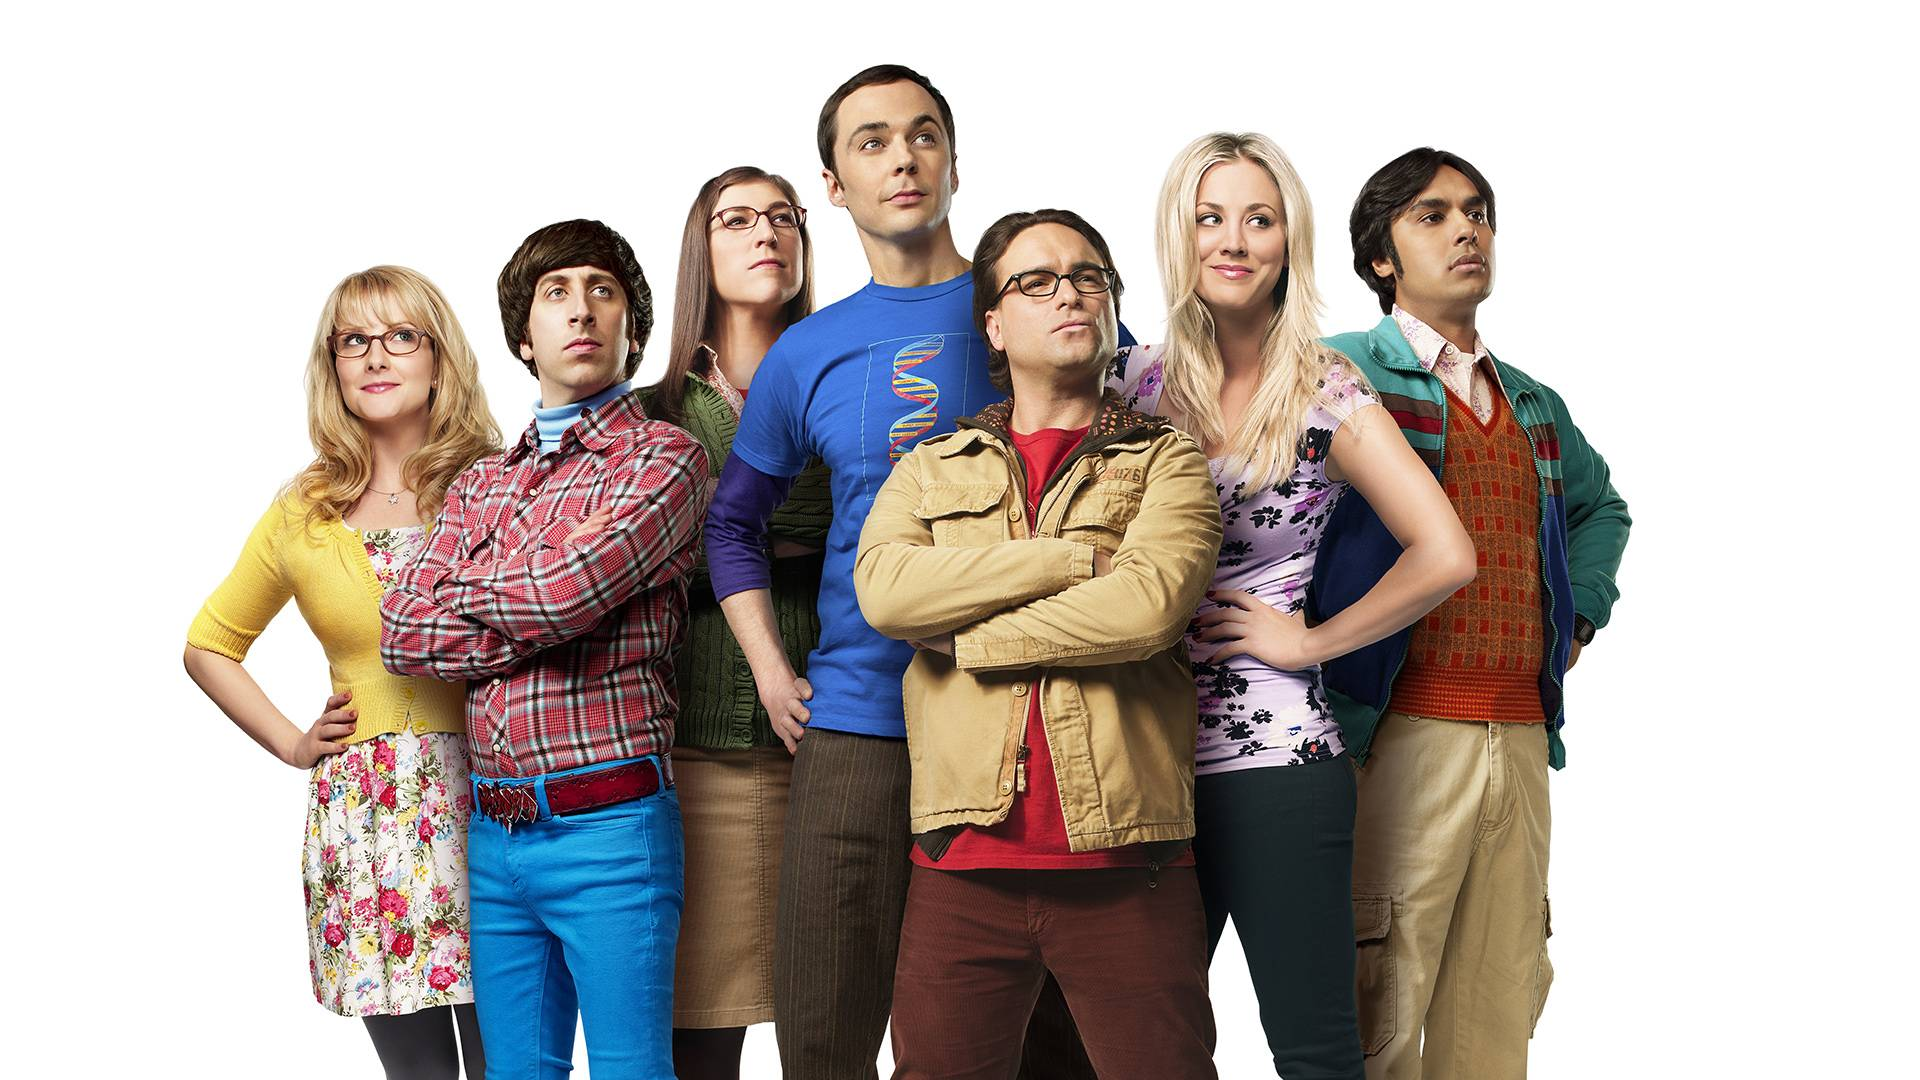
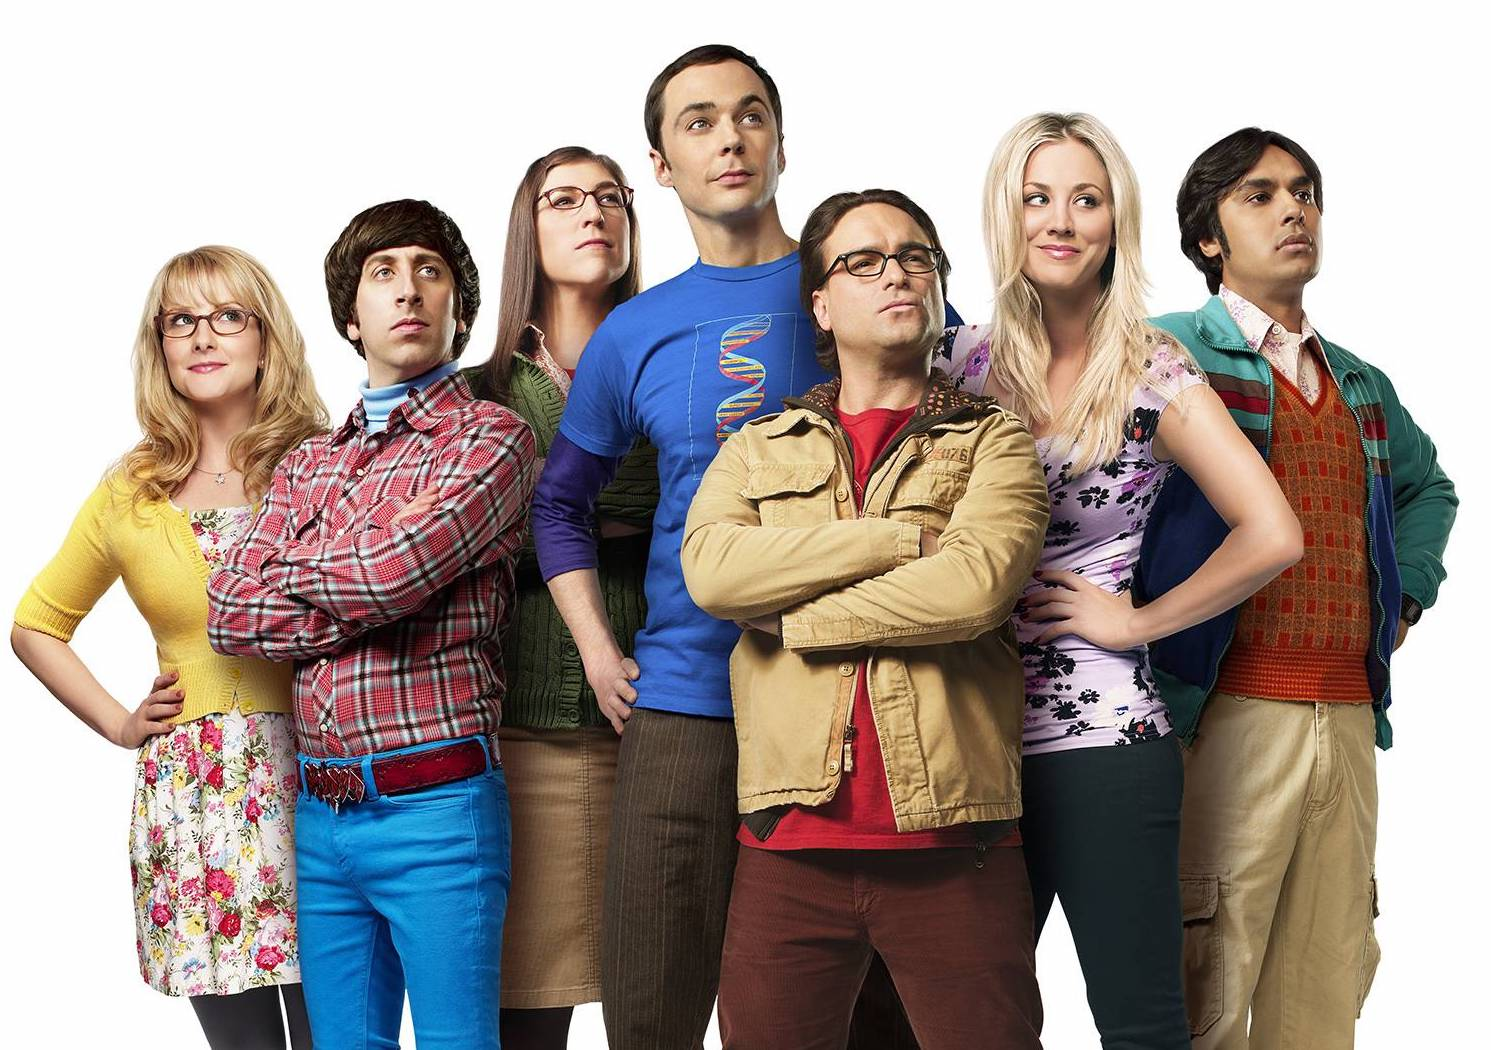
Teamimage eingefügt

diff --git a/styles/050-components.css b/styles/050-components.css
@@ -14,7 +14,14 @@ Wer es noch schöner möchte, möge sich mal https://cssguidelin.es/ anschauen.
 
 }
 
+.TeamBigBang{
 
+   width: auto;
+   height: auto;
+   max-width: 1080px;
+   max-height: 1080px;
+
+}
 
 =======
 .wrapper {
@@ -64,19 +71,9 @@ Wer es noch schöner möchte, möge sich mal https://cssguidelin.es/ anschauen.
 -----------------------------------------------------------------------------*/
 
 .site-header {
-<<<<<<< HEAD
    
     margin-bottom: var(--space-stack-xl);   
     border-bottom-style: solid;
-=======
-    background-color: var(--color-head);
-    margin-bottom: var(--space-stack-xl);
-    grid-column-start: 1;
-
-    grid-column-end: 5;
-    grid-row-start: 1;
-    grid-row-end: 2;
->>>>>>> 3ea78bfd695a3260eba8d6695ef6d7b203e47c4b
 }
 
 .site-header__content {
@@ -251,3 +248,5 @@ ul__horizontal li a {
 .member__avatar img {
     border-radius: 50%;
 }
+
+

diff --git a/index.html b/index.html
@@ -46,10 +46,10 @@
     </header>
 
     
+    <figure>
+            <img class = "TeamBigBang" src="images/TeamBigBang.jpg" title="Team" alt="BigBangTheory"> 
+          </figure>
     
-    
-    
-
     
     <main class = "staff">
         <section class = "section">

diff --git a/styles/040-layout.css b/styles/040-layout.css
@@ -28,3 +28,4 @@ Wer es noch schöner möchte, möge sich mal https://cssguidelin.es/ anschauen.
     margin-bottom: var(--space-stack-xl);
     text-align: center;
 }
+

diff --git a/styles/010-resets.css b/styles/010-resets.css
@@ -18,6 +18,7 @@ figure {
 }
 
 
+
 /* Image Reset 
 -----------------------------------------------------------------------------*/
 
